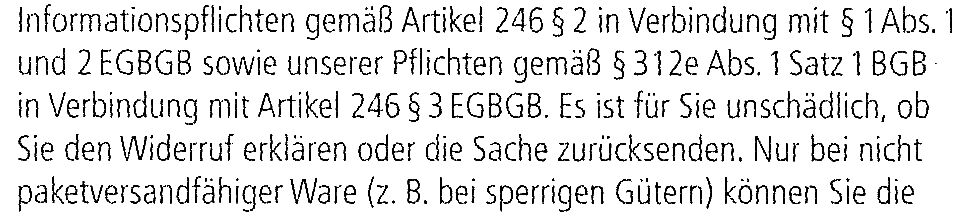
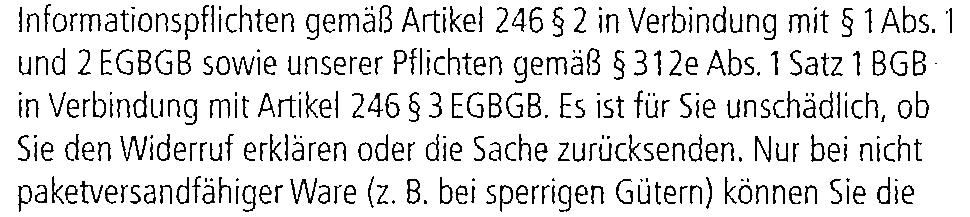
Updated README

diff --git a/README.md b/README.md
@@ -55,16 +55,16 @@ Morphological Opening swallows fine structures, but unsharp masking helps preser
     <td><code>Original Image (own)</code></td>
   </tr>
   <tr>
-    <td><img src="https://github.com/suuuehgi/noteshrunk/blob/main/examples/example_2-opening.jpg?raw=True" alt="Morphological Opening" width="970" height="217"/></td>
+    <td><img src="https://github.com/suuuehgi/noteshrunk/blob/main/examples/example_2-closing.jpg?raw=True" alt="Morphological Closing" width="970" height="217"/></td>
   </tr>
   <tr>
-    <td><code>noteshrunk -w --denoise_opening -os .9</code></td>
+    <td><code>noteshrunk -w --denoise_closing -cs 1.5</code></td>
   </tr>
   <tr>
     <td><img src="https://github.com/suuuehgi/noteshrunk/blob/main/examples/example_2-unsharp.jpg?raw=True" alt="Unsharp Masking" width="970" height="217"/></td>
   </tr>
   <tr>
-    <td><code>noteshrunk -w --unsharp_mask </code></td>
+    <td><code>noteshrunk -w --unsharp_mask -ua 5 --denoise_closing -cs 1.5</code></td>
   </tr>
 </table>
 
